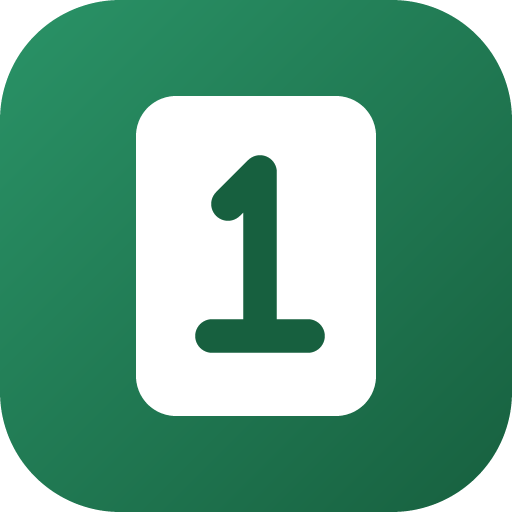
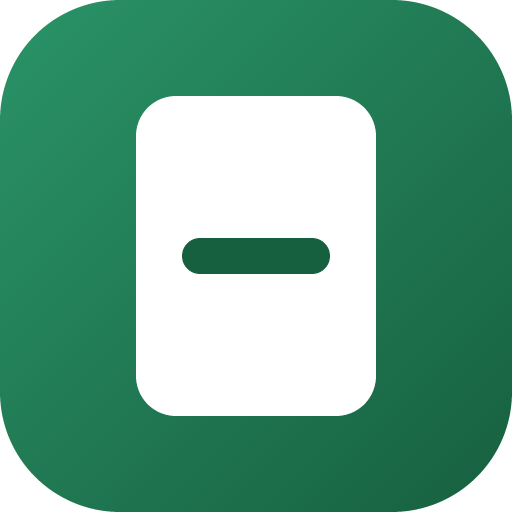
The mark keeps one bar rather than a 1
The rounded white sheet with a single bar through it reads as a stylised
O, which is the letter the name starts with. The numeral was more literal
and less of a mark.

Claude-Session: https://claude.ai/code/session_01D8vQVSBfifXBqFvAMPABiB

Changed region(s): [[0.3438, 0.2812, 0.6562, 0.6875]]

diff --git a/scripts/make-icons.py b/scripts/make-icons.py
@@ -25,13 +25,10 @@ GRAD_FROM = (0x2A, 0x93, 0x67)
 GRAD_TO = (0x17, 0x60, 0x3F)
 # The pad itself, and the one line written on it.
 PAD = (17, 12, 47, 52, 5)  # x0, y0, x1, y1, corner radius, in the 64-unit box
-# A numeral one, drawn on the pad: the flag, the stem, and the foot.
-MARK = [
-    (28.5, 25.5, 32.5, 21.5),
-    (32.5, 21.5, 32.5, 42),
-    (26.5, 42, 38.5, 42),
-]
-LINE_WIDTH = 4.2
+# One bar across the sheet. With the rounded white shape around it the mark
+# reads as a stylised O, which is the letter the name starts with.
+LINE = (25, 32, 39, 32)
+LINE_WIDTH = 4.5
 
 # Supersampling factor. The glyph is thin strokes with round caps, and without
 # this the edges stair-step badly at 192px.
@@ -67,7 +64,7 @@ def render(size):
     stroke = (LINE_WIDTH * scale) / 2.0  # half-width, measured from the centre line
 
     pad = tuple(v * scale for v in PAD)
-    mark = [tuple(v * scale for v in seg) for seg in MARK]
+    line = tuple(v * scale for v in LINE)
 
     rows = []
     for py in range(size):
@@ -93,7 +90,7 @@ def render(size):
                     # that order for the same reason the SVG stacks them.
                     if in_rounded_rect(x, y, *pad):
                         cr = cg = cb = 255.0
-                        if any(seg_distance(x, y, *seg) <= stroke for seg in mark):
+                        if seg_distance(x, y, *line) <= stroke:
                             cr, cg, cb = GRAD_TO
 
                     r_acc += cr

diff --git a/AGENTS.md b/AGENTS.md
@@ -1139,12 +1139,14 @@ a page.
   wire, to date something the note already dates. The group heading carries
   the note's time instead, which is true, and is not dressed up as more
   precise than it is.
-- **The mark is one pad with a 1 on it.** It was a text cursor between two
-  serifs, in indigo, which said "a field you can type in" and belonged to a
-  different name. A silhouette rather than an outline, because a one-pixel
-  stroke disappears at sixteen pixels on a home screen, and two colours in
-  total. `scripts/make-icons.py` draws the PNGs from the same numbers as
-  `src/app/icon.svg` — change one, run the other.
+- **The mark is one pad with one bar through it.** It was a text cursor
+  between two serifs, in indigo, which said "a field you can type in" and
+  belonged to a different name. A silhouette rather than an outline, because
+  a one-pixel stroke disappears at sixteen pixels on a home screen, and two
+  colours in total — and the rounded white shape with a bar through it reads
+  as a stylised O. A numeral 1 was tried and taken out again: more literal,
+  and less of a mark. `scripts/make-icons.py` draws the PNGs from the same
+  numbers as `src/app/icon.svg` — change one, run the other.
 
 ## Checking work
 
